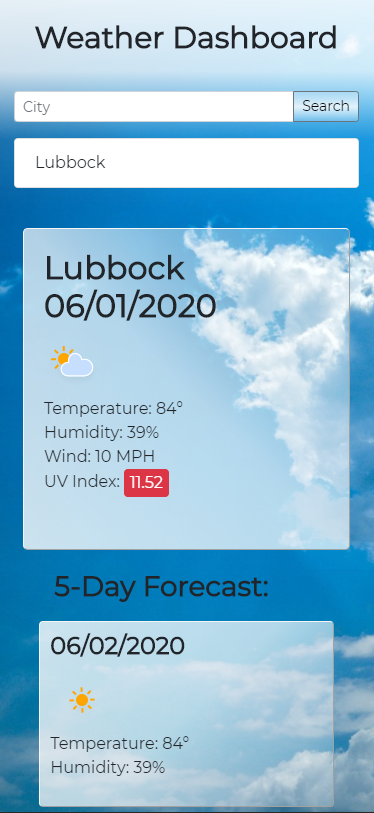
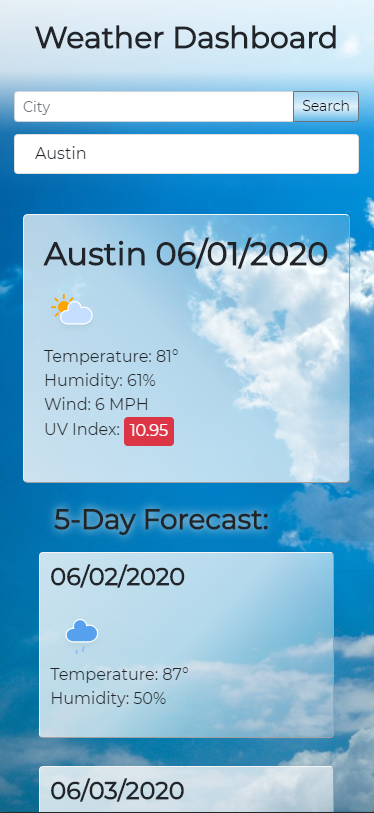
reduced max list length, updated screenshot imgs, added shadow to forecast header

diff --git a/assets/js/script.js b/assets/js/script.js
@@ -11,11 +11,7 @@ if (localStorage.getItem('recentCity') === null) {
 // prevents user inputing incorrect casing
 function newCity() {
 	var newCity = $('input').val();
-	newCity = newCity
-		.toLowerCase()
-		.split(' ')
-		.map((s) => s.charAt(0).toUpperCase() + s.substring(1))
-		.join(' ');
+	
 	getData(newCity);
 	$('input').val('');
 }
@@ -29,7 +25,7 @@ function getData(city) {
         // if AJAX return is successfull, make new list item, print weather, and run additional functions for images and forecast
 		success: function (response) {
 			$('#error-message').text('');
-			newListCity(city);
+			newListCity(response.name);
 			localStorage.setItem('recentCity', JSON.stringify(city));
 			var m = moment
 				.unix(response.dt)
@@ -111,7 +107,7 @@ function getForecast(lat, lon) {
 // add a list item to recent search list
 function newListCity(city) {
 	var newListItem = $(`<a class="list-group-item list-group-item-action">${city}</a>`);
-	if ($('.list-group-item').length === 5) {
+	if ($('.list-group-item').length === 4) {
 		$('.list-group-item').last().remove();
 	}
 	$('.city-list').prepend(newListItem);

diff --git a/assets/css/style.css b/assets/css/style.css
@@ -58,6 +58,10 @@ h6 {
 	flex-direction: column;
 }
 
+.list-group-item {
+    padding: .45rem 1.25rem;
+}
+
 #forecast {
 	max-width: 90% !important;
 	opacity: 0;
@@ -113,6 +117,10 @@ ul {
 	align-self: center;
 	font-weight: bold;
 	text-shadow: 0 0 5px rgb(219, 219, 219);
+}
+
+#fiveDay {
+	text-shadow: 0 0 10px rgb(233, 233, 233);
 }
 
 @media (min-width: 768px) {

diff --git a/index.html b/index.html
@@ -84,7 +84,7 @@
 							</div>
 						</div>
 						<div class="container" id="forecast">
-							<h3>5-Day Forecast:</h3>
+							<h3 id="fiveDay">5-Day Forecast:</h3>
 							<div class="row justify-content-between">
 								<div class="col-sm-2 card forecast">
 									<h4 id="day0"></h4>
